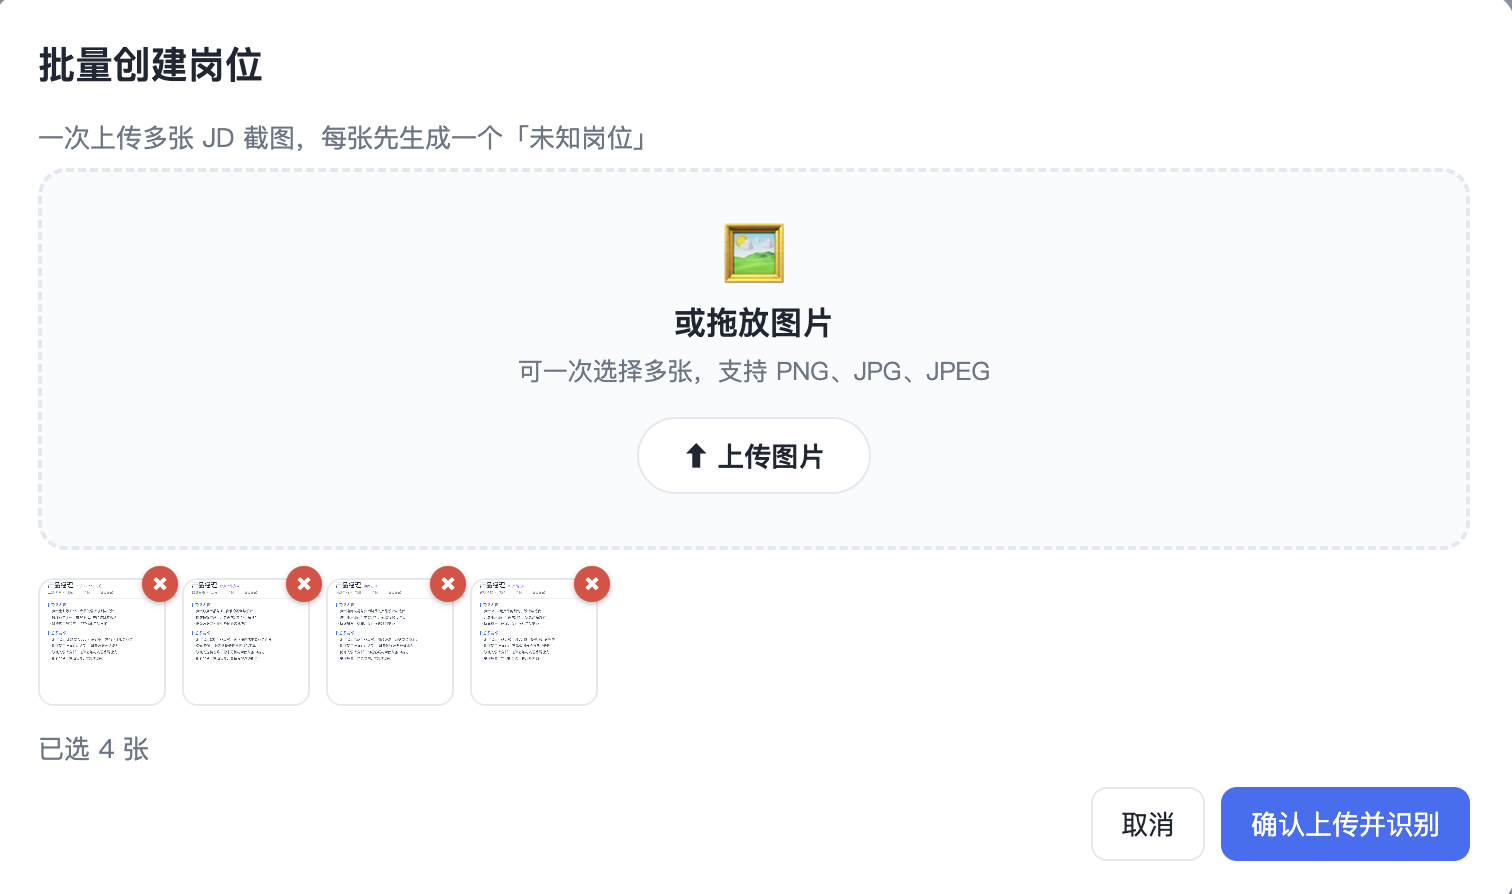
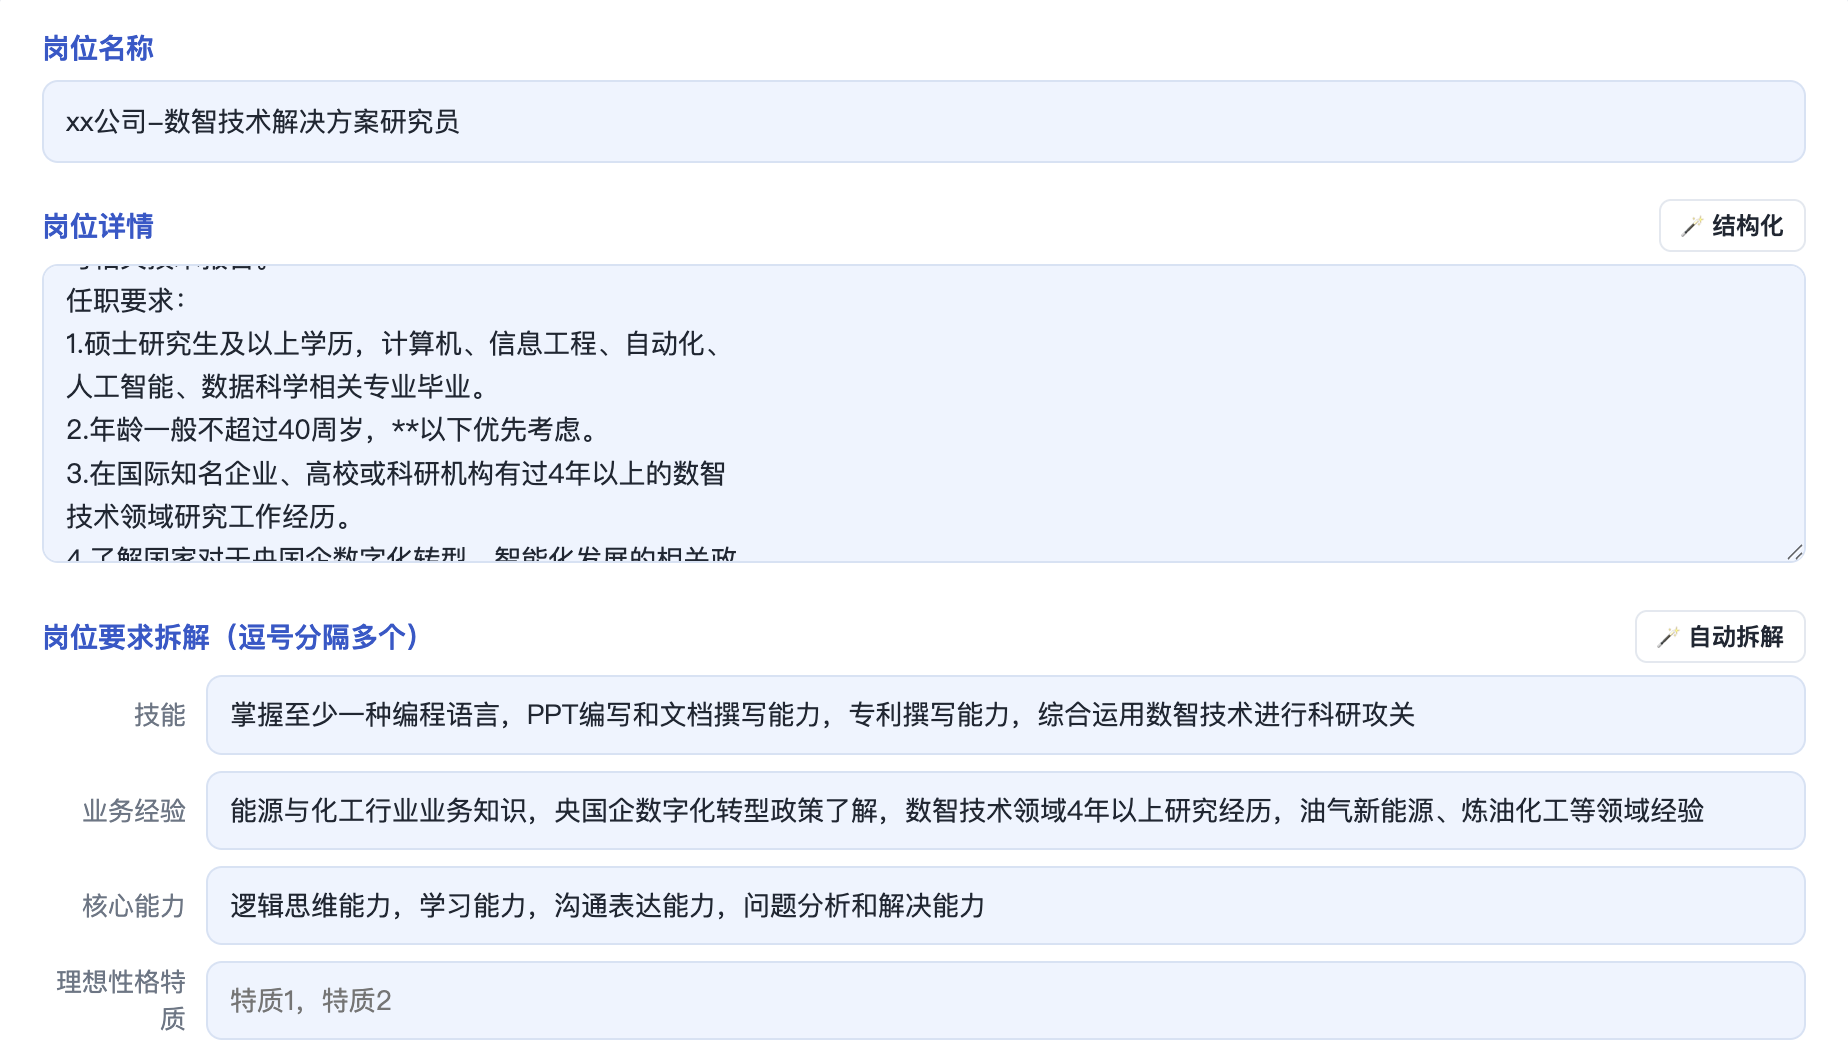
匹配度计算方式优化

diff --git a/app.js b/app.js
@@ -12,9 +12,9 @@
       placeholder: "图片 OCR 提取的原文…", def: "" },
     { key: "requirements",  label: "岗位要求拆解", type: "req" },
     { key: "match",         label: "个人匹配度分析", type: "match" },
-    { key: "interviewHave", label: "已有面试内容", type: "textarea", rows: 3,
+    { key: "interviewHave", label: "面试策略", type: "textarea", rows: 3,
       def: "xx公司xx项目内容可作为业务经验案例\nxx经历可作为xx核心能力例证" },
-    { key: "interviewNeed", label: "面试需补足内容", type: "textarea", rows: 2,
+    { key: "interviewNeed", label: "面试准备", type: "textarea", rows: 2,
       def: "花费一周时间掌握技能3" },
     { key: "prepDays",      label: "面试准备时间", type: "days", def: 7 },
   ];
@@ -285,13 +285,22 @@
         if (s.placeholder) field.placeholder = s.placeholder;
       } else {
         field = document.createElement("textarea");
-        field.rows = s.rows || 4;
+        field.rows = s.rows || 2;
+        autoGrow(field);   // 随内容自动撑高
       }
       field.value = job[s.key] || "";
       field.dataset.key = s.key;
       wrap.appendChild(field);
       editorEl.appendChild(wrap);
     });
+  }
+
+  // 文本域随内容自动增高（不出现滚动条、不固定高度）
+  function autoGrow(el) {
+    el.style.overflow = "hidden";
+    const fit = () => { el.style.height = "auto"; el.style.height = el.scrollHeight + "px"; };
+    el.addEventListener("input", fit);
+    requestAnimationFrame(fit);   // 入 DOM 后按初始内容撑高
   }
 
   // 枚举输入框：灰色占位提示（聚焦即消失，留空失焦再出现）

diff --git a/styles.css b/styles.css
@@ -460,11 +460,14 @@ body {
 .match-dim-head { font-size: 13px; color: var(--muted); margin-bottom: 6px; }
 .match-opts { display: flex; flex-wrap: wrap; gap: 8px; }
 .match-opt {
-  display: inline-flex; align-items: center; gap: 6px;
-  font-size: 13px; padding: 5px 11px; cursor: pointer; user-select: none;
-  border: 1px solid #d6e2f5; border-radius: 999px; background: #eef4ff; color: var(--text);
+  display: inline-flex; align-items: center; gap: 9px; width: auto; max-width: 100%;
+  font-size: 13.5px; padding: 8px 12px; cursor: pointer; user-select: none;
+  border: 1px solid #d6e2f5; border-radius: 8px; background: #eef4ff; color: var(--text);
 }
 .match-opt:hover { border-color: #b9cdf2; }
 .match-opt.checked { background: #e4f6ed; border-color: #9fd9bd; color: #0f6e56; }
-.match-opt input { margin: 0; cursor: pointer; }
+.match-opt input {
+  flex: 0 0 auto; width: auto; min-width: 0; margin: 0; padding: 0; cursor: pointer;
+}
+.match-opt span { white-space: nowrap; }
 .match-empty { font-size: 12.5px; color: var(--muted); }